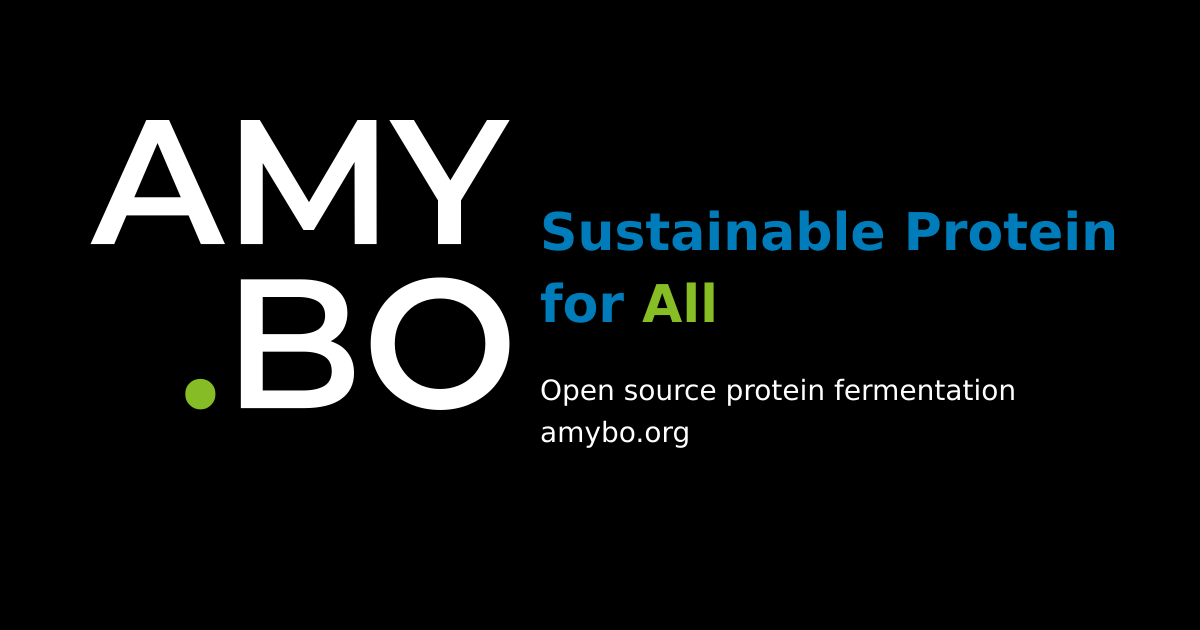
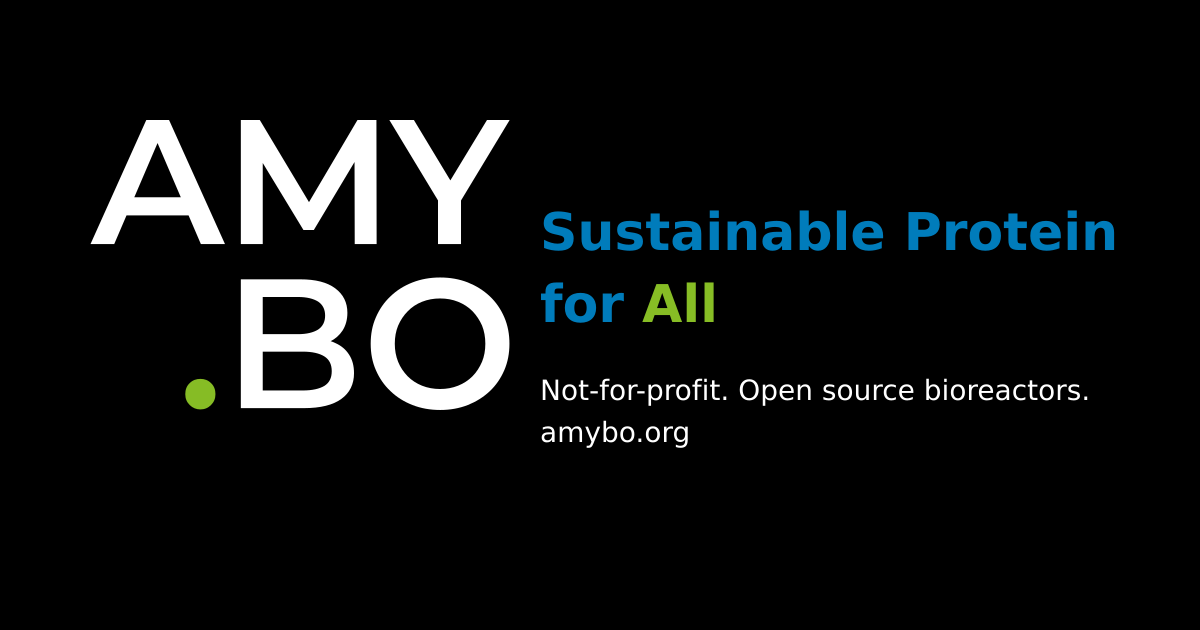
Mission statement rewritten; "open source" describes the bioreactors, not AMYBO
The mission statement now ends world hunger, poverty, and the biodiversity
and climate crises by making delicious, wholesome, sustainable protein
universally accessible. Each of the eight terms has a one-line gloss and the
figures carry numbered footnotes (FAO 2023, Twine 2021, Poore & Nemecek 2018,
Leger et al. 2021, Sillman et al. 2019). No product names.

Site description, structured data, homepage, README and the link-preview
image describe AMYBO as a not-for-profit community making protein from air
with hydrogen-oxidising bacteria and open source bioreactors. The homepage
intro, strapline gloss, single-cell protein page and fund-us description
no longer say "open source protein" or "open source community".

Claude-Session: https://claude.ai/code/session_01X6cpaUBayaNfGejkBNgqN1

Changed region(s): [[0.4317, 0.6032, 0.8942, 0.6333]]

diff --git a/CHANGELOG.md b/CHANGELOG.md
@@ -4,6 +4,7 @@ Done work on amybo.org, newest first. Open work is in [TODO.md](TODO.md).
 
 ## 2026-10-25
 
+- [x] **Mission statement rewritten** — "AMYBO exists to end world hunger, poverty, and the biodiversity and climate crises by making delicious, wholesome, sustainable protein universally accessible", with eight one-line glosses (the two crises split) and four numbered footnotes for the figures (FAO 2023 and Twine 2021; Poore & Nemecek 2018; Leger et al. 2021; Sillman et al. 2019). No product names, and "open source" now describes the bioreactors, not AMYBO: site description (config, structured data, homepage, README) is "Sustainable Protein for All. AMYBO is a not-for-profit community, making protein from air with hydrogen-oxidising bacteria and open source bioreactors."; link-preview image says "Not-for-profit. Open source bioreactors."; homepage intro, strapline gloss, single-cell protein and fund-us wording follow suit.
 - [x] **Mission statement: no product names** — the Delicious and Wholesome bullets no longer name Solein; they say "one" and "the other" of the two tasted HOB proteins and "the first HOB protein on the market". Facts and citations unchanged.
 - [x] **Strapline: option D for "All" on white** — on the light theme the about page's strapline shows "All" in the dark green #5C8119 (4.6:1 on white) in place of black on a green highlight; the dark theme and the hero over the forest photo keep the brand green #87BD25. Chosen from the six variants on /brand-test/. #5C8119 is not yet in the branding repository (github.com/amy-bo/branding); the brand guide needs a line for green text on white. Pushed to brand-guide and main, so dev.amybo.org and brand-guide.amybo-4p1.pages.dev show the same site.
 

diff --git a/src/content/docs/sustainable-protein/single-cell-protein.md b/src/content/docs/sustainable-protein/single-cell-protein.md
@@ -7,7 +7,7 @@ sidebar:
   order: 4
 ---
 
-Single-cell protein (SCP), or microbial protein, is made by growing microbes and eating the whole cell, usually dried. This is called biomass fermentation. Because the whole microbe is the product, processing is simpler than [precision fermentation](/sustainable-protein/precision-fermentation/), which is why we think it is the best route for open source protein.
+Single-cell protein (SCP), or microbial protein, is made by growing microbes and eating the whole cell, usually dried. This is called biomass fermentation. Because the whole microbe is the product, processing is simpler than [precision fermentation](/sustainable-protein/precision-fermentation/), which is why we think it is the most promising route to sustainable protein for all.
 
 Replacing a fifth of the world's ruminant meat with microbial protein by 2050 could halve deforestation, according to one model ([Humpenöder et al., 2022](https://doi.org/10.1038/s41586-022-04629-w)).
 

diff --git a/README.md b/README.md
@@ -1,6 +1,6 @@
 # amybo.org
 
-The website of [AMYBO](https://amybo.org), a non-profit open source protein fermentation community: sustainable protein for all.
+The website of [AMYBO](https://amybo.org), a not-for-profit community making protein from air with hydrogen-oxidising bacteria and open source bioreactors: Sustainable Protein for All.
 
 Built with [Astro](https://astro.build) and [Starlight](https://starlight.astro.build), hosted on [Cloudflare Pages](https://pages.cloudflare.com). Event registration uses [Events&I](https://github.com/andeyePro/eventsandeye) (beta), andeye's open source registration system on Pages Functions and D1; a copy lives in `eventsandeye/`.
 
